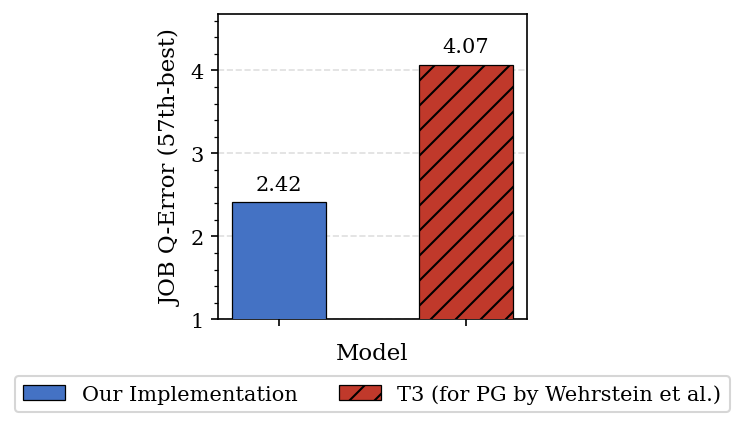
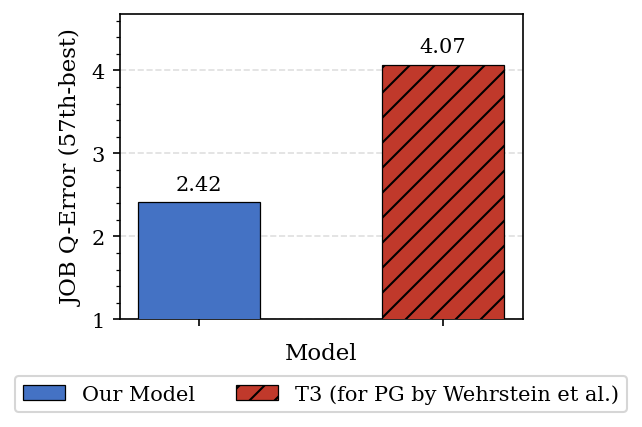
updated some plots

diff --git a/results/figs_job/plot_comp_wehrstein.py b/results/figs_job/plot_comp_wehrstein.py
@@ -5,7 +5,7 @@ import numpy as np
 
 matplotlib.rcParams['font.family'] = 'serif'
 
-MODELS  = ['Our Implementation', 'T3 (for PG by Wehrstein et al.)']
+MODELS  = ['Our Model', 'T3 (for PG by Wehrstein et al.)']
 VALUES  = [2.4156, 4.07]
 LABELS  = ['2.42', '4.07']
 COLORS  = ['#4472C4', '#C0392B']
